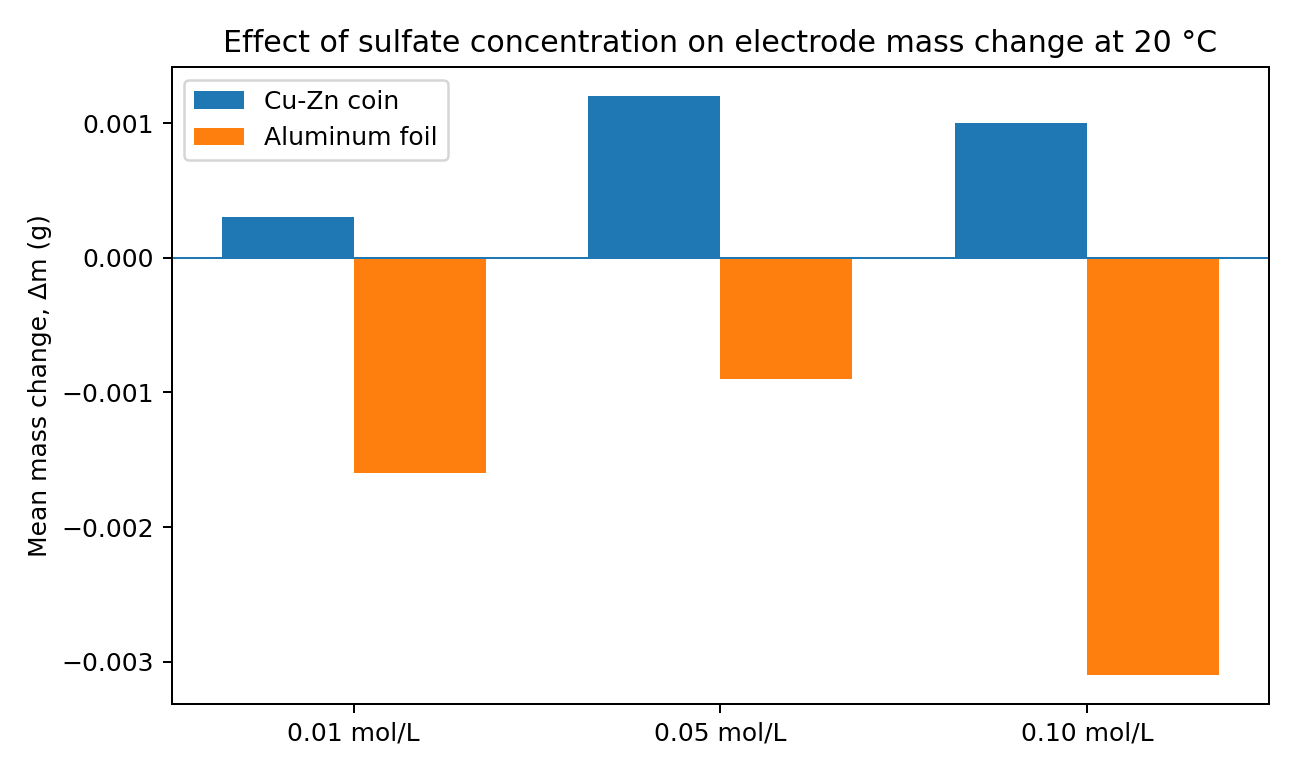
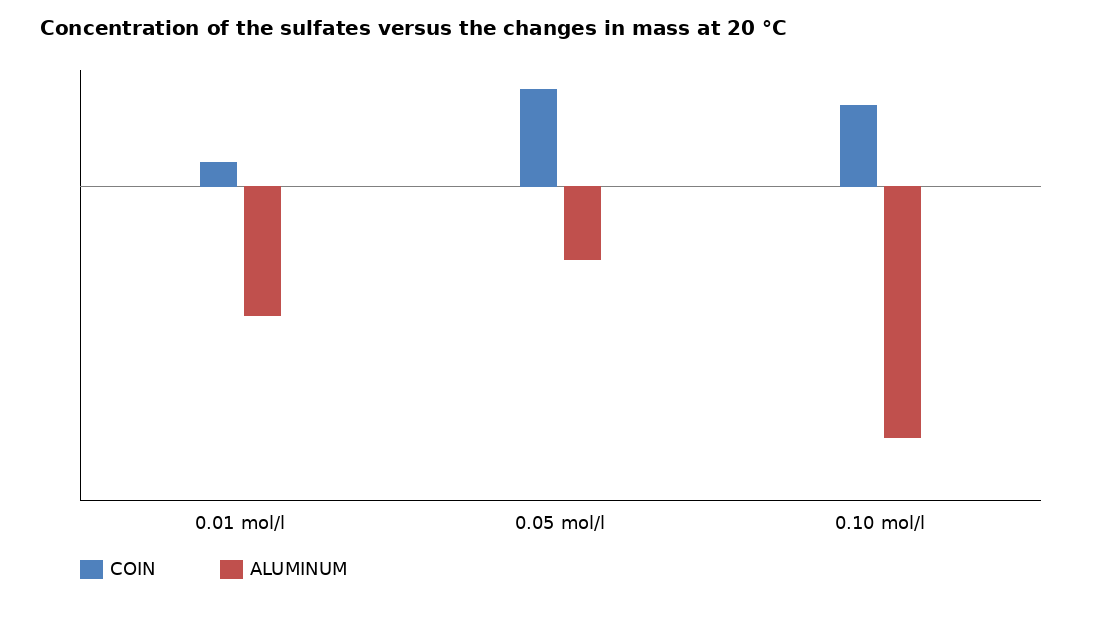
Chemistry page: align with the faithful English translation

diff --git a/_projects/3-modified-galvanic-cell.md b/_projects/3-modified-galvanic-cell.md
@@ -2,19 +2,19 @@
 # --- Shown on the landing page and at the top of this project page ----------
 order: 1
 field: Experimental Electrochemistry
-title: "Effect of ZnSO4 and CuSO4 Concentration and Temperature on Electrode Mass Change in a Modified Galvanic Cell"
+title: "Comparative Analysis of Changes in the Mass of Aluminum and Copper Based on the Concentration of ZnSO4 and CuSO4"
 tagline: >-
-  An experimental investigation of how electrolyte concentration and temperature influence
-  electrode mass changes in a modified galvanic cell.
-subtitle: IB Chemistry SL Independent Research Project | Diego Romero | 2026
+  An experimental investigation of how sulfate concentration and temperature influence the change
+  in mass of aluminum and copper electrodes in an electrochemical cell.
+subtitle: IB Diploma Programme Chemistry SL Course Investigation | Diego Romero | 2026
 summary: >-
-  A laboratory investigation across three sulfate concentrations and three temperatures,
-  measuring electrode mass change to ±0.0001 g and reporting a response that was not
-  strictly linear.
+  A laboratory investigation across three sulfate concentrations and three temperatures, measuring
+  the change in mass of aluminum and copper electrodes to ±0.0001 g and finding a relationship that
+  was not strictly linear.
 
 tags:
   - Electrochemistry
-  - Galvanic Cells
+  - Daniell Cell
   - Corrosion
   - Electrodeposition
   - Experimental Chemistry
@@ -23,7 +23,7 @@ card_image: chemistry/fig5-salt-bridge.jpg
 hero_image: chemistry/fig5-salt-bridge.jpg
 hero_narrow: true
 hero_alt: The two half-cells connected by a KCl salt bridge during the experiment
-hero_caption: "The modified galvanic cell in operation, with the two half-cells connected by a KCl salt bridge. Source: author's experimental work."
+hero_caption: "The electrochemical cell in operation, with the two half-cells connected by a KCl salt bridge. Source: author's experimental work."
 
 # --- Buttons at the bottom of the page --------------------------------------
 # Leave url blank until the record is published, then paste the link between
@@ -40,20 +40,12 @@ buttons:
 
 ## Project Overview
 
-This experimental chemistry project investigated how electrolyte concentration and temperature
-influence electrode mass changes in a modified galvanic cell. Aluminum foil was immersed in ZnSO4
-solution and a Peruvian 10-cent Cu-Zn alloy coin was immersed in CuSO4 solution, with the two
-half-cells connected by a KCl salt bridge. Three sulfate concentrations (0.01, 0.05 and
-0.10 mol/L) were tested at three temperatures (20.0, 40.0 and 60.0 °C). Electrode masses were
-measured before and after 60 minutes of operation using an analytical balance with ±0.0001 g
-resolution.
-
-The experiment examined the combined effects of concentration and temperature on anodic
-dissolution, metal deposition and net electrode mass change. The results showed that the response
-was not strictly linear, particularly at 60 °C, where the largest mean mass increase of the Cu-Zn
-coin occurred at 0.05 mol/L rather than at the highest concentration.
-
-<p class="note">Spanish original: 2,886 words.</p>
+This investigation explored the loss of mass of the anode through corrosion and the gain in mass
+of the cathode through electrodeposition. A Daniell cell was set up with aluminum foil in zinc
+sulfate (ZnSO4) solution and a Peruvian 10-cent coin, an alloy of copper and zinc, in copper sulfate
+(CuSO4) solution, with the two half-cells joined by a KCl salt bridge. Three sulfate concentrations
+were tested at three temperatures, and the mass of each electrode was measured before and after
+60 minutes of operation.
 
 </div>
 </section>
@@ -63,9 +55,14 @@ coin occurred at 0.05 mol/L rather than at the highest concentration.
 
 ## Research Question
 
-<p class="callout">How do zinc sulfate (ZnSO4) and copper sulfate (CuSO4) concentrations at three
-specific levels (0.10, 0.05 and 0.01 mol/L) affect the mass change of the electrodes in a modified
-galvanic cell at different temperatures (20.0, 40.0 and 60.0 ± 0.1 °C)?</p>
+<p class="callout">How does the concentration of zinc sulfate (ZnSO4) and copper sulfate (CuSO4) at
+three specific levels (0.10, 0.05 and 0.01 mol/l) influence the change in mass of copper and aluminum
+in an electrochemical cell at different temperatures (20.0, 40.0 and 60.0 ± 0.1 °C)?</p>
+
+### Hypothesis
+
+As the concentration of zinc sulfate and copper sulfate and the temperature of the electrolytic
+solution increase, the change in mass of aluminum and copper will be greater.
 
 </div>
 </section>
@@ -79,27 +76,21 @@ galvanic cell at different temperatures (20.0, 40.0 and 60.0 ± 0.1 °C)?</p>
 
 <div class="wrap">
 <ul class="flow">
-  <li>Al foil in ZnSO<sub>4</sub></li>
+  <li>Aluminum foil in ZnSO<sub>4</sub></li>
   <li>KCl salt bridge</li>
-  <li>Cu-Zn coin in CuSO<sub>4</sub></li>
+  <li>Coin in CuSO<sub>4</sub></li>
 </ul>
 </div>
 
 <div class="prose">
 <ul class="cards" style="margin-top:2rem">
-  <li><strong>Electrolyte concentrations</strong> 0.01, 0.05 and 0.10 mol/L.</li>
-  <li><strong>Temperature conditions</strong> 20.0, 40.0 and 60.0 ± 0.1 °C.</li>
+  <li><strong>Sulfate concentrations</strong> 0.10, 0.05 and 0.01 mol/l.</li>
+  <li><strong>Temperatures</strong> 20.0, 40.0 and 60.0 ± 0.1 °C, controlled with a water bath.</li>
   <li><strong>Reaction time</strong> 60.0 ± 0.1 minutes per trial.</li>
-  <li><strong>Replicates</strong> n = 3 for each concentration–temperature condition.</li>
+  <li><strong>Repetitions</strong> 3 for each concentration at each temperature.</li>
+  <li><strong>Electrodes</strong> Aluminum foil of approximately 25.0 ± 0.1 cm² as the anode; a Peruvian 10-cent coin (copper-zinc alloy) as the cathode.</li>
+  <li><strong>Measurement</strong> Analytical balance ± 0.0001 g; ∆m = mf − mi.</li>
 </ul>
-</div>
-
-<div class="prose" markdown="1">
-
-<p class="note">The apparatus is described as a modified galvanic cell inspired by the Daniell-cell
-configuration. It is not a classical Daniell cell: the anode was aluminum foil rather than zinc
-metal, and the cathode was a Cu-Zn alloy coin rather than pure copper.</p>
-
 </div>
 </section>
 
@@ -114,19 +105,19 @@ metal, and the cathode was a Cu-Zn alloy coin rather than pure copper.</p>
 <div class="gallery">
   <figure>
     <img src="{{ '/assets/img/chemistry/fig1-analytical-balance.jpg' | relative_url }}" alt="Reagent being weighed on an analytical balance" loading="lazy">
-    <figcaption>Figure 1. Measuring reagent mass using an analytical balance.</figcaption>
+    <figcaption>Measuring reagent mass on the analytical balance.</figcaption>
   </figure>
   <figure>
     <img src="{{ '/assets/img/chemistry/fig2-solution-preparation.jpg' | relative_url }}" alt="Volumetric flasks containing the prepared sulfate solutions" loading="lazy">
-    <figcaption>Figure 2. Preparation of ZnSO4 and CuSO4 solutions at controlled concentrations.</figcaption>
+    <figcaption>Prepared sulfate solutions in volumetric flasks.</figcaption>
   </figure>
   <figure>
-    <img src="{{ '/assets/img/chemistry/fig3-electrode-mass.jpg' | relative_url }}" alt="Electrode being weighed on an analytical balance before testing" loading="lazy">
-    <figcaption>Figure 3. Electrode mass measurement before electrochemical testing.</figcaption>
+    <img src="{{ '/assets/img/chemistry/fig3-electrode-mass.jpg' | relative_url }}" alt="Electrode being weighed on an analytical balance" loading="lazy">
+    <figcaption>Measuring the mass of an electrode on the analytical balance.</figcaption>
   </figure>
   <figure>
-    <img src="{{ '/assets/img/chemistry/fig4-cell-setup.jpg' | relative_url }}" alt="The galvanic cell assembled under controlled temperature conditions" loading="lazy">
-    <figcaption>Figure 4. Modified galvanic-cell setup under controlled-temperature conditions.</figcaption>
+    <img src="{{ '/assets/img/chemistry/fig4-cell-setup.jpg' | relative_url }}" alt="The electrochemical cells placed in the water bath" loading="lazy">
+    <figcaption>The electrochemical cells placed in the water bath.</figcaption>
   </figure>
 </div>
 </div>
@@ -137,60 +128,70 @@ metal, and the cathode was a Cu-Zn alloy coin rather than pure copper.</p>
 
 ## Key Results
 
+Mean change in mass (∆m) of each electrode, as reported in the investigation.
+
 </div>
 
 <div class="wrap">
-<div class="gallery">
-  <figure>
-    <img src="{{ '/assets/img/chemistry/graph-20c.png' | relative_url }}" alt="Bar chart of mean electrode mass change at 20 degrees Celsius" loading="lazy">
-    <figcaption>Mean electrode mass change at 20 °C. Source: author's experimental data.</figcaption>
-  </figure>
-  <figure>
-    <img src="{{ '/assets/img/chemistry/graph-40c.png' | relative_url }}" alt="Bar chart of mean electrode mass change at 40 degrees Celsius" loading="lazy">
-    <figcaption>Mean electrode mass change at 40 °C. Source: author's experimental data.</figcaption>
-  </figure>
-  <figure>
-    <img src="{{ '/assets/img/chemistry/graph-60c.png' | relative_url }}" alt="Bar chart of mean electrode mass change at 60 degrees Celsius" loading="lazy">
-    <figcaption>Mean electrode mass change at 60 °C. Source: author's experimental data.</figcaption>
-  </figure>
-</div>
-</div>
-
-<div class="wrap" style="margin-top:2rem">
 <div class="table-wrap">
 <table>
   <thead>
     <tr>
       <th>Temperature</th>
-      <th>0.01 Coin Δm</th>
-      <th>0.01 Al Δm</th>
-      <th>0.05 Coin Δm</th>
-      <th>0.05 Al Δm</th>
-      <th>0.10 Coin Δm</th>
-      <th>0.10 Al Δm</th>
+      <th>0.01 Coin ∆m</th>
+      <th>0.01 Al ∆m</th>
+      <th>0.05 Coin ∆m</th>
+      <th>0.05 Al ∆m</th>
+      <th>0.10 Coin ∆m</th>
+      <th>0.10 Al ∆m</th>
     </tr>
   </thead>
   <tbody>
     <tr><td>20 °C</td><td>+0.0003 g</td><td>−0.0016 g</td><td>+0.0012 g</td><td>−0.0009 g</td><td>+0.0010 g</td><td>−0.0031 g</td></tr>
-    <tr><td>40 °C</td><td>+0.0005 g</td><td>−0.0007 g</td><td>+0.0023 g</td><td>+0.0002 g</td><td>+0.0033 g</td><td>+0.0015 g</td></tr>
+    <tr><td>40 °C</td><td>+0.0005 g</td><td>−0.0007 g</td><td>+0.0023 g</td><td>0.0002 g</td><td>+0.0033 g</td><td>0.0012 g</td></tr>
     <tr><td>60 °C</td><td>+0.0017 g</td><td>+0.0000 g</td><td>+0.0089 g</td><td>+0.0004 g</td><td>+0.0010 g</td><td>+0.0007 g</td></tr>
   </tbody>
 </table>
 </div>
 </div>
+
+<div class="wrap" style="margin-top:2rem">
+<div class="gallery">
+  <figure>
+    <img src="{{ '/assets/img/chemistry/graph-20c.png' | relative_url }}" alt="Bar chart of the change in mass of each electrode at 20 degrees Celsius" loading="lazy">
+    <figcaption>Concentration of the sulfates versus the changes in mass at 20 °C. Own elaboration.</figcaption>
+  </figure>
+  <figure>
+    <img src="{{ '/assets/img/chemistry/graph-40c.png' | relative_url }}" alt="Bar chart of the change in mass of each electrode at 40 degrees Celsius" loading="lazy">
+    <figcaption>Concentration of the sulfates versus the changes in mass at 40 °C. Own elaboration.</figcaption>
+  </figure>
+  <figure>
+    <img src="{{ '/assets/img/chemistry/graph-60c.png' | relative_url }}" alt="Bar chart of the change in mass of each electrode at 60 degrees Celsius" loading="lazy">
+    <figcaption>Concentration of the sulfates versus the changes in mass at 60 °C. Own elaboration.</figcaption>
+  </figure>
+</div>
+</div>
 </section>
 
 <section class="section" markdown="1">
 <div class="prose" markdown="1">
 
-## Key Finding
+## Discussion
 
-At 60 °C, the largest mean mass increase of the Cu-Zn coin occurred at 0.05 mol/L (+0.0089 g),
-rather than at 0.10 mol/L (+0.0010 g). This result shows that the relationship between electrolyte
-concentration and electrode mass change was not strictly linear under the conditions tested.
+At 20 °C a "classic" pattern was observed: aluminum tended to lose mass and the coin to gain it,
+consistent with corrosion predominating in the aluminum and moderate electrodeposition at the
+cathode.
 
-<p class="callout"><strong>Largest observed mean coin mass increase:</strong> +0.0089 g at 60 °C and
-0.05 mol/L.</p>
+At 40 °C deposition increased. The coin gained more mass as the concentration increased, and the
+aluminum also began to show some gain in mass.
+
+At 60 °C deposition at the cathode rose sharply, but not in accordance with the increase in
+concentration: the coin gained by far the most mass at 0.05 mol/l. The aluminum showed small gains
+in mass, suggesting that at high temperatures coating by reduced copper or zinc can compensate for
+anodic dissolution.
+
+<p class="callout"><strong>Largest mean mass gain of the coin:</strong> +0.0089 g at 60 °C and
+0.05 mol/l.</p>
 
 </div>
 </section>
@@ -198,21 +199,13 @@ concentration and electrode mass change was not strictly linear under the condit
 <section class="section" markdown="1">
 <div class="prose" markdown="1">
 
-## Interpretation
+## Conclusion
 
-At 20 °C, the aluminum electrode showed net mass loss while the Cu-Zn coin showed small mass gains,
-a pattern consistent with anodic dissolution and cathodic deposition. At higher temperatures, the
-behavior became more complex. The aluminum electrode showed small net mass gains under some 40 °C
-and 60 °C conditions, suggesting that anodic dissolution may have competed with surface deposition
-or cementation processes.
-
-The strong coin mass increase at 60 °C and 0.05 mol/L, followed by a lower increase at 0.10 mol/L,
-indicates that increasing concentration did not produce a simple proportional response. Deposit
-formation, adhesion, transport of ions, and material loss during post-experiment handling may all
-have contributed to the observed pattern.
-
-<p class="note">The experiment did not independently identify or quantify the composition of the
-deposited material, so these explanations are interpretive rather than definitive.</p>
+The data are consistent with the hypothesis in general terms: as concentration and temperature
+increased, the changes in mass of the aluminum and the coin were greater. However, the relationship
+was not strictly linear. At 60 °C and 0.10 mol/l the mass gain of the cathode was smaller than at
+0.05 mol/l, showing the influence of other phenomena such as the quality of the deposit, diffusion
+limitations or the adhesion of the reduced material.
 
 </div>
 </section>
@@ -222,18 +215,11 @@ deposited material, so these explanations are interpretive rather than definitiv
 
 ## Limitations
 
-The experiment had several limitations that are important when interpreting the results. Only three
-concentration levels were tested, and each condition used three replicates (n = 3). Some measured
-mass changes were close to the ±0.0001 g resolution of the analytical balance, particularly at
-20 °C. Washing and oven-drying the electrodes may have removed weakly adhered deposits, while
-temperature may not have been perfectly uniform throughout both half-cells. In addition, the
-cathode was a Cu-Zn alloy coin rather than a pure copper electrode, and the aluminum-foil area was
-approximately controlled (~25 cm²) while individual foil masses varied. These factors limit the
-precision with which the results can be generalized.
-
-<p class="note">The unexpected results were treated as part of the scientific analysis rather than
-removed, highlighting the importance of evaluating competing electrochemical processes and
-experimental uncertainty.</p>
+Washing the electrodes and drying them in the oven may have caused the loss of a small amount of
+material or the detachment of a weak metallic deposit, which could have affected the final mass.
+The temperature of the water bath may not have been kept homogeneous in both solutions, which could
+have led to variations between repetitions. In addition, the use of only three concentrations did
+not make it possible to identify the relationship between the variables on a larger scale.
 
 </div>
 </section>
@@ -255,7 +241,7 @@ experimental uncertainty.</p>
   <li>Data Collection and Replication</li>
   <li>Quantitative Analysis</li>
   <li>Graphical Interpretation</li>
-  <li>Evaluation of Uncertainty</li>
+  <li>Evaluation of Limitations</li>
   <li>Scientific Writing</li>
 </ul>
 </div>
